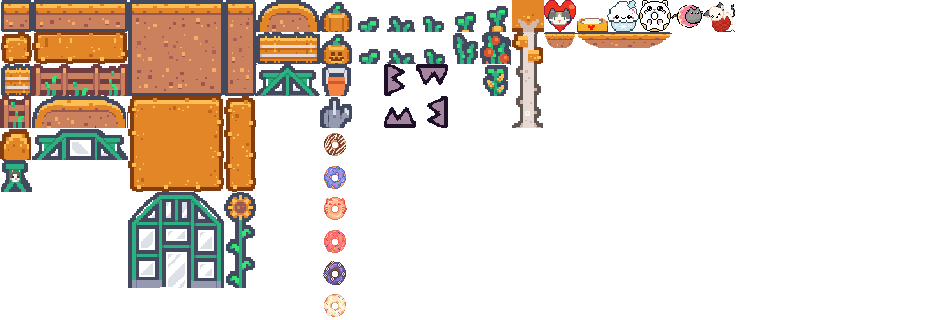
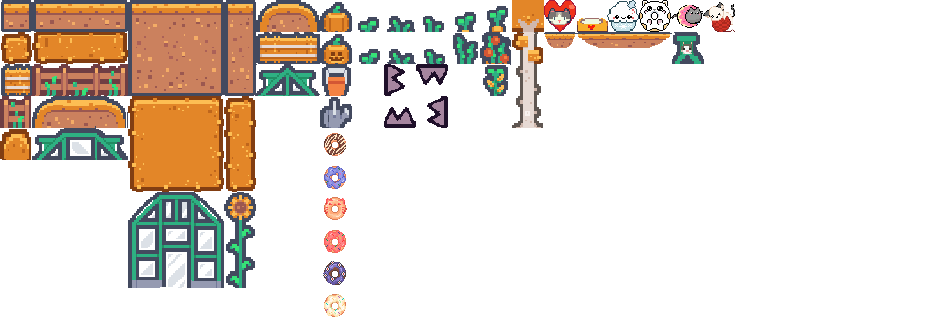
trampolines

Changed region(s): [[0.7188, 0.0938, 0.7812, 0.2188], [0.0, 0.5, 0.0312, 0.625]]

diff --git a/components/catbassadors/scenes/CatbassadorsScene.ts b/components/catbassadors/scenes/CatbassadorsScene.ts
@@ -9,6 +9,7 @@ import { setIsGameLoaded } from "@/components/game/events";
 const enemyDurationMs = 15000;
 
 const JUMP_LAYER_TILES = [47, 48, 49, 50];
+const TRAMPOLINE_TILES = [51];
 
 export class CatbassadorsScene extends Scene {
   platform!: Phaser.GameObjects.Rectangle;
@@ -17,6 +18,7 @@ export class CatbassadorsScene extends Scene {
   tilemap!: Phaser.Tilemaps.Tilemap;
   groundLayer!: Phaser.Tilemaps.TilemapLayer;
   platformsLayer!: Phaser.Tilemaps.TilemapLayer;
+  jumperLayer!: Phaser.Tilemaps.TilemapLayer;
   enemies: Enemy[] = [];
   enemySpawnInterval: NodeJS.Timeout | null = null;
   timer: number = catbassadorsGameDuration;
@@ -81,6 +83,8 @@ export class CatbassadorsScene extends Scene {
     this.platformsLayer = this.tilemap.createLayer("platforms", [
       sugarTileset,
     ])!;
+    this.tilemap.createLayer("decorations", [sugarTileset]);
+    this.jumperLayer = this.tilemap.createLayer("jumper", [sugarTileset])!;
 
     this.anims.create({
       key: "star",
@@ -92,7 +96,6 @@ export class CatbassadorsScene extends Scene {
       repeat: 1,
     });
 
-    this.tilemap.createLayer("decorations", [sugarTileset]);
 
     // Set collision for specific tiles based on property
     this.groundLayer?.setCollisionByExclusion([-1]);
@@ -102,6 +105,19 @@ export class CatbassadorsScene extends Scene {
       (player: Phaser.GameObjects.GameObject) => {
         const playerSprite = player as Phaser.Physics.Arcade.Sprite;
         if (playerSprite.body!.velocity.y <= 0) {
+          return true;
+        }
+        return false;
+      },
+      this
+    );
+    this.jumperLayer?.setCollision(TRAMPOLINE_TILES);
+    this.jumperLayer.setTileIndexCallback(
+      JUMP_LAYER_TILES,
+      (player: Phaser.GameObjects.GameObject) => {
+        const playerSprite = player as Phaser.Physics.Arcade.Sprite;
+        if (playerSprite.body!.velocity.y <= 0) {
+          playerSprite.setVelocityY(200);
           return true;
         }
         return false;
@@ -166,6 +182,11 @@ export class CatbassadorsScene extends Scene {
     this.physics.add.collider(
       this.cat.sprite as Phaser.Physics.Arcade.Sprite,
       this.platformsLayer
+    );
+    this.physics.add.collider(
+      this.cat.sprite as Phaser.Physics.Arcade.Sprite,
+      this.jumperLayer,
+      () => this.cat?.sprite.setVelocityY(-1000)
     );
     this.cameras.main.startFollow(this.cat.sprite);
 

diff --git a/components/Phaser/PlayerMovement/PlayerMovement.ts b/components/Phaser/PlayerMovement/PlayerMovement.ts
@@ -1,6 +1,6 @@
 import { PlayerAnimation } from "@/components/purrquest/objects/Player";
-import { IPlayer } from "../PlayerMovement/IPlayer";
 import Phaser from "phaser";
+import { IPlayer } from "../PlayerMovement/IPlayer";
 
 const wallSlidingThresholdMs = 200;
 
@@ -125,14 +125,13 @@ export class PlayerMovement {
       Phaser.Input.Keyboard.JustDown(this.player.keys.dash) ||
       this.player.isMobileDash;
 
-    if (dashKeyDown && this.player.canDash) {
+    if (dashKeyDown) {
       this.dash();
       this.player.isMobileDash = false;
     }
   }
 
   private dash() {
-    this.player.canDash = false;
     this.player.isDashing = true;
     const direction = this.player.sprite.flipX ? -1 : 1;
     this.player.sprite.setVelocityX(this.player.dashSpeed * direction);
@@ -148,11 +147,6 @@ export class PlayerMovement {
 
   private stopDash() {
     this.player.isDashing = false;
-    // this.player.sprite.setVelocityX(0);
-
-    this.player.scene.time.delayedCall(this.player.dashCooldown, () => {
-      this.player.canDash = true;
-    });
   }
 
   jump({

diff --git a/components/catbassadors/objects/Catbassador.ts b/components/catbassadors/objects/Catbassador.ts
@@ -71,7 +71,6 @@ export class Cat implements IPlayer {
   cursors: Phaser.Types.Input.Keyboard.CursorKeys;
   keys!: KeyMap;
 
-  canDash: boolean = true;
   isDashing: boolean = false;
   readonly dashTime: number = 200; // Duration of dash in ms
   readonly dashCooldown: number = 300; // Cooldown time before dashing again

diff --git a/components/purrquest/objects/Player.ts b/components/purrquest/objects/Player.ts
@@ -66,7 +66,6 @@ export class Player implements IPlayer {
   keys!: KeyMap;
   isMobileDash: boolean = false;
 
-  canDash: boolean = true;
   isDashing: boolean = false;
   dashTime: number = 200;
   dashCooldown: number = 600;

diff --git a/components/Phaser/PlayerMovement/IPlayer.ts b/components/Phaser/PlayerMovement/IPlayer.ts
@@ -11,7 +11,6 @@ export interface IPlayer {
   isMobileLeft: boolean;
   isMobileRight: boolean;
   isMobileDash: boolean;
-  canDash: boolean;
   isDashing: boolean;
   walkSpeed: number;
   jumpSpeed: number;
